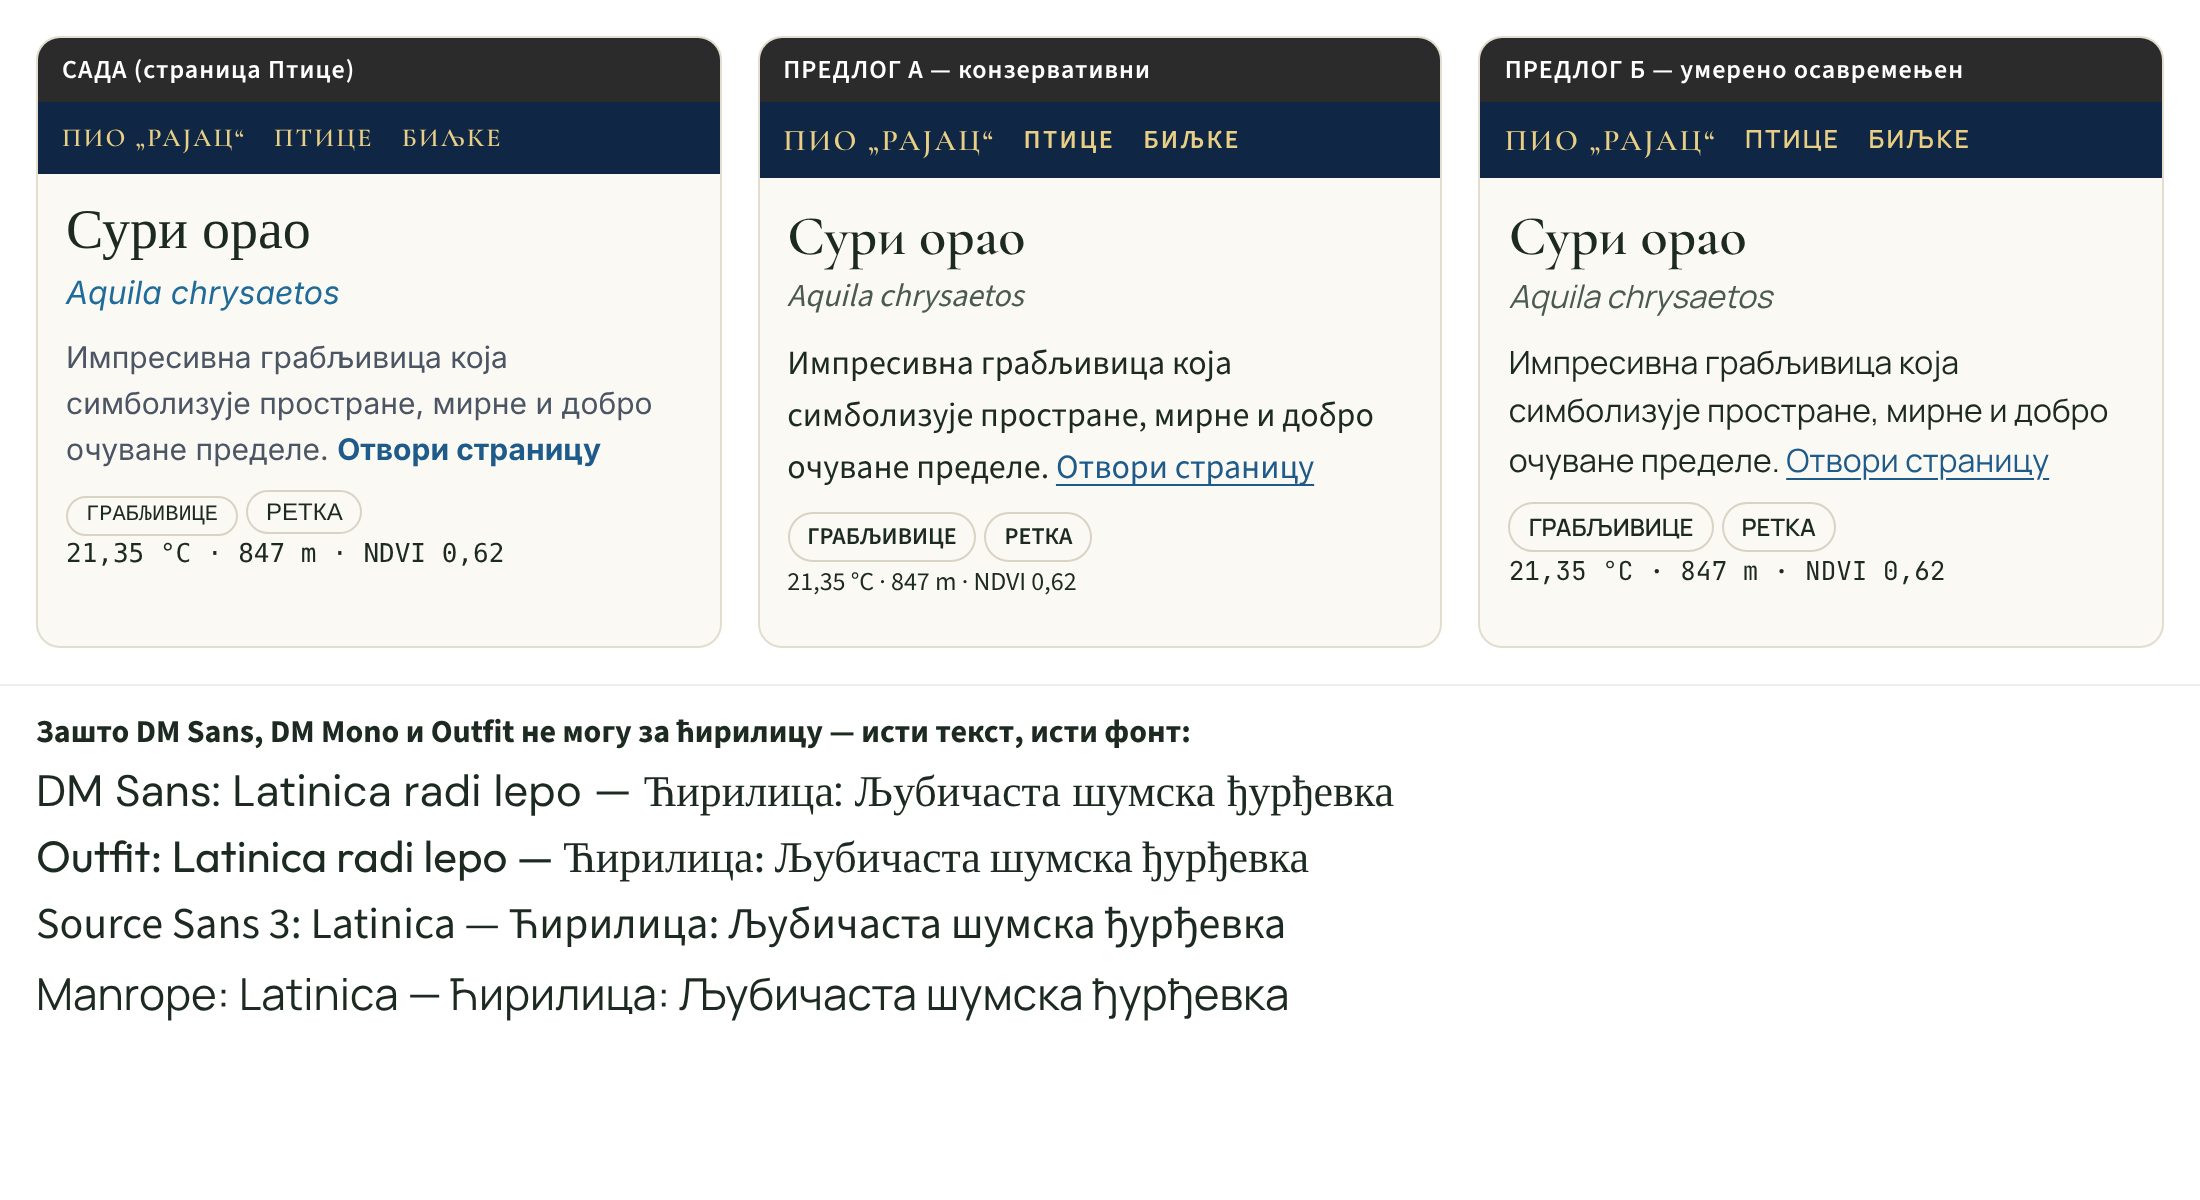
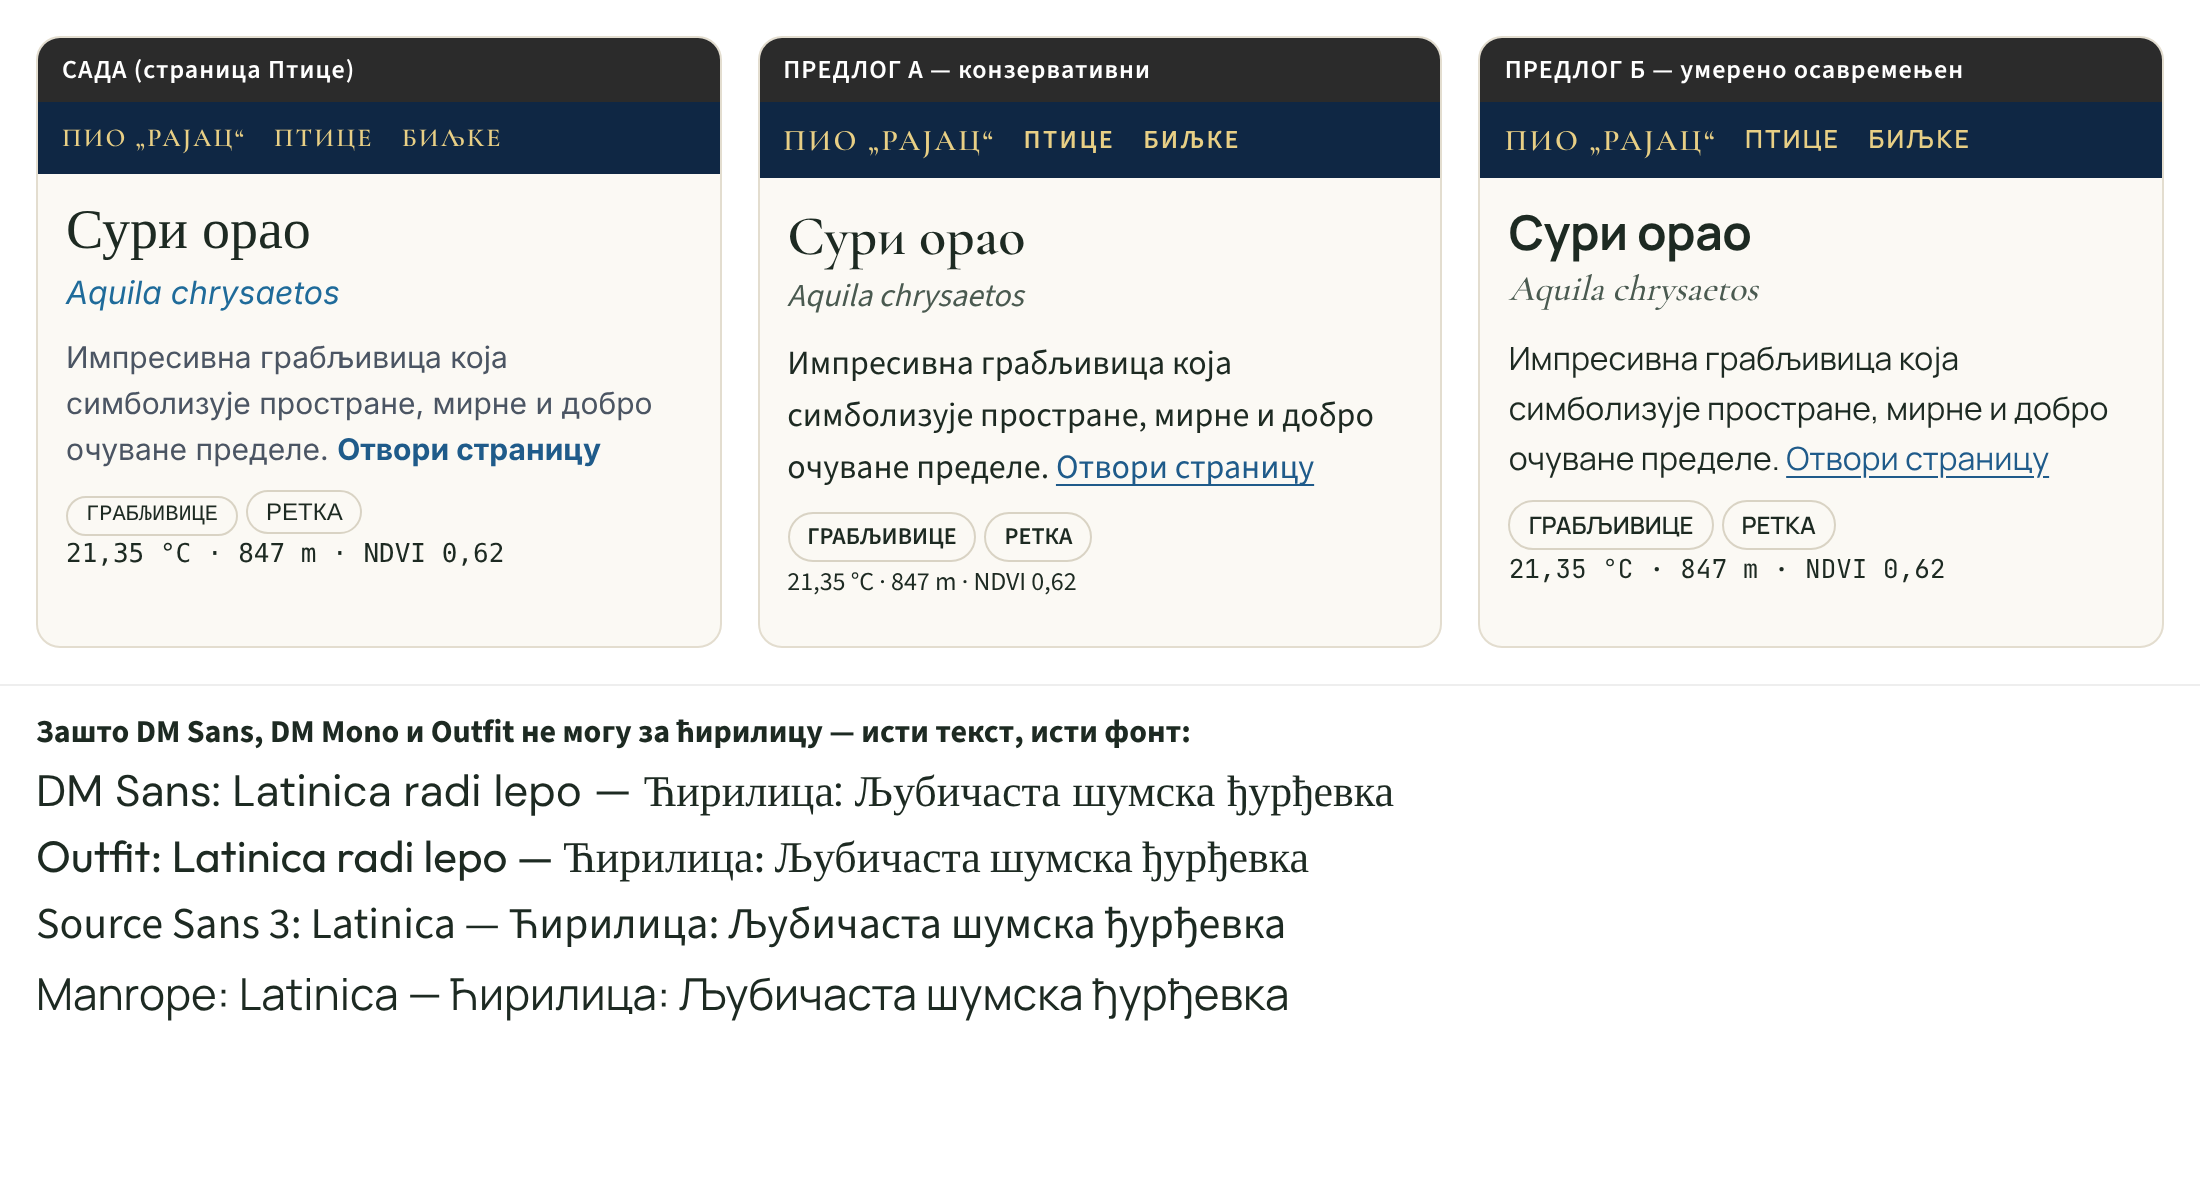
Дизајн: поређење стилова ажурирано за нови стил Б
Claude-Session: https://claude.ai/code/session_01QzH2czW7WT6uH1rGcsFuV6

Changed region(s): [[0.68, 0.185, 0.9582, 0.4933], [0.8345, 0.4625, 0.8964, 0.4933]]

diff --git a/site/dizajn/index.html b/site/dizajn/index.html
@@ -25,5 +25,5 @@ ul{padding-left:20px}.n{color:#4a5a50;font-size:15px}.b{font-family:Manrope,syst
 <li><a href="https://piorajac.rs/dizajn/PIO-Rajac-revizija-dizajna-2026-10-20.pdf">Извештај у PDF-у</a> (21 страна)</li>
 <li><a href="https://piorajac.rs/dizajn/PIO-Rajac-stil-A-probne-stranice-2026-10-20.pdf">Стил А — снимци пре/после у PDF-у</a> (8 страна)</li></ul>
 <h3 style="font:600 22px/1.2 'Cormorant Garamond',Georgia,serif;color:#0f2744;margin:22px 0 8px">Садашњи изглед, стил А и стил Б — исти текст</h3>
-<img src="https://piorajac.rs/dizajn/revizija/img/specimen.png" alt="Поређење садашњег изгледа, стила А и стила Б на картици сурог орла" style="width:100%;height:auto;border:1px solid #e3ddcf;border-radius:8px;background:#fff">
+<img src="https://piorajac.rs/dizajn/revizija/img/specimen.png?v=2" alt="Поређење садашњег изгледа, стила А и стила Б на картици сурог орла" style="width:100%;height:auto;border:1px solid #e3ddcf;border-radius:8px;background:#fff">
 </main></body></html>
